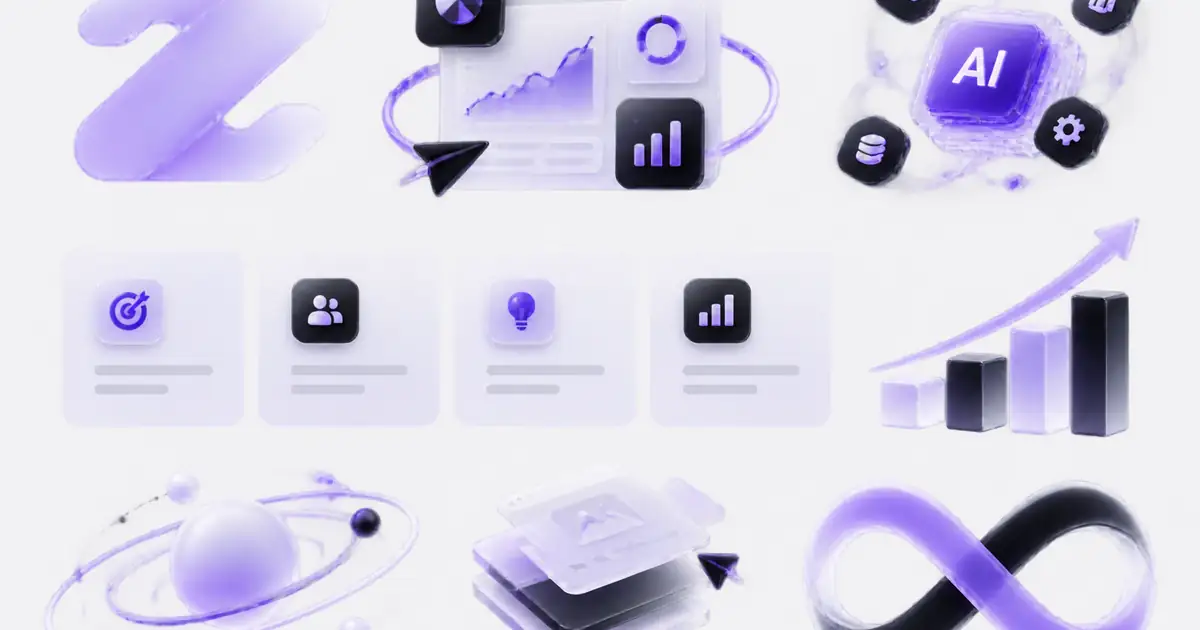
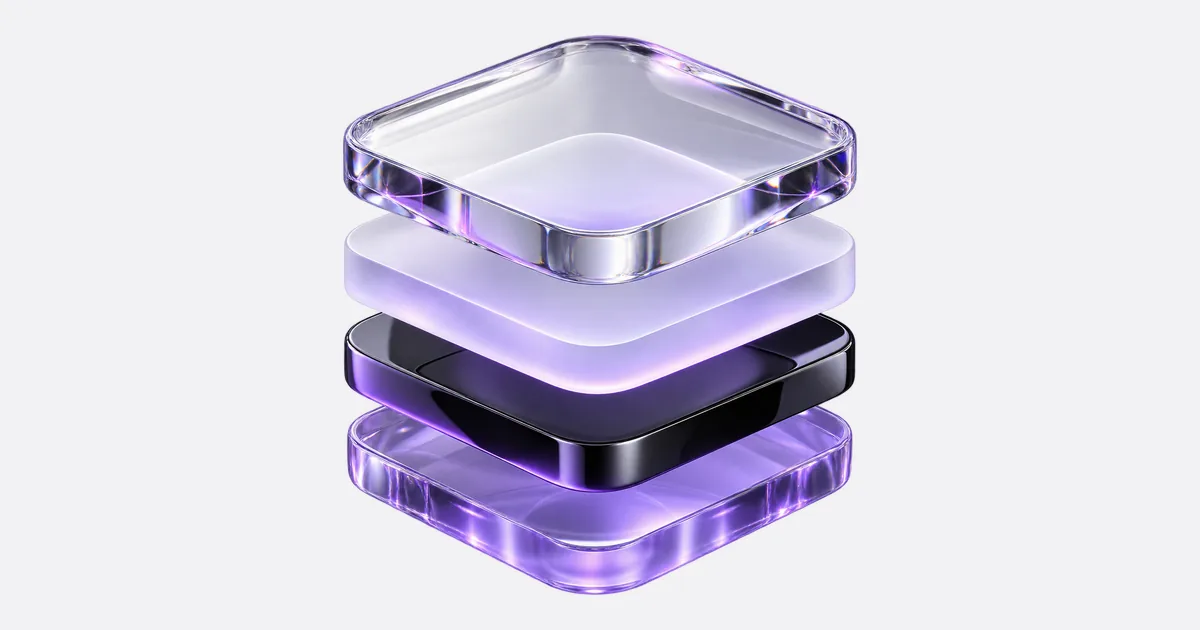
Update website

diff --git a/src/app/globals.css b/src/app/globals.css
@@ -4927,7 +4927,7 @@ html.contact-open body {
 .about-hero__grid { display: grid; gap: var(--space-12); align-items: center; }
 .about-hero__content { position: relative; z-index: 1; }
 .about-kicker { display: inline-flex; align-items: center; min-block-size: 2rem; padding-inline: .9rem; border: 1px solid rgb(122 64 237 / 18%); border-radius: var(--radius-pill); background: rgb(255 255 255 / 68%); color: var(--color-accent); font-size: var(--text-label); font-weight: var(--font-weight-medium); }
-.about-hero__title { max-inline-size: 13ch; margin: var(--space-5) 0 0; font-size: clamp(2.65rem, 6vw, 5.4rem); font-weight: var(--font-weight-medium); line-height: 1.2; text-wrap: balance; }
+.about-hero__title { max-inline-size: 16ch; margin: var(--space-5) 0 0; font-size: clamp(2.15rem, 4.2vw, 3.9rem); font-weight: var(--font-weight-medium); line-height: 1.28; text-wrap: balance; }
 .about-hero__lede { max-inline-size: 42rem; margin: var(--space-6) 0 0; color: var(--color-muted); font-size: clamp(1rem, 2vw, 1.2rem); line-height: 2; }
 .about-actions { display: flex; flex-wrap: wrap; gap: var(--space-4); align-items: center; margin-block-start: var(--space-8); }
 .about-text-link { display: inline-flex; gap: .45rem; align-items: center; min-block-size: 2.75rem; padding-inline: .5rem; color: var(--color-foreground); font-size: var(--text-small); font-weight: var(--font-weight-medium); text-decoration: none; }
